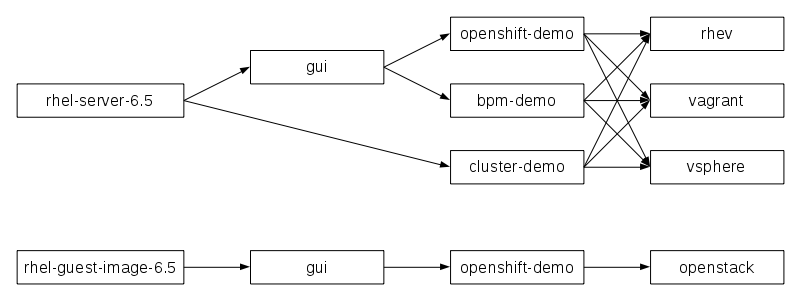
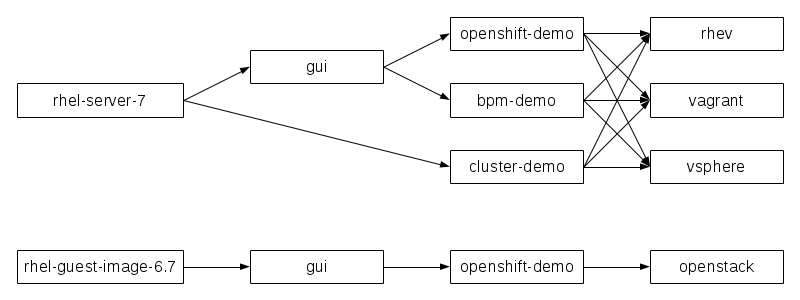
docs update

diff --git a/docs/Developing and testing intermediate layers.md b/docs/Developing and testing intermediate layers.md
@@ -8,54 +8,51 @@ Building an intermediate layer is the most common build case in Demobuilder, and
 
 1. Start a temporary virtual machine using the COW image and wait until its guest agent reports the VM's IP address to Demobuilder
 
-1. Rsync the layer's `target/` directory to a temporary directory on the VM using the demobuilder SSH key
+1. Rsync the layer's `@target/` directory to a temporary directory on the VM using the demobuilder SSH key
 
 1. Run the `target/install` executable on the VM
 
 1. Remove the target/ directory from the VM
 
-1. Remove references to the VM MAC address from the VM
+1. "Sysprep" the VM
 
 1. Power off the VM
 
 ### Intermediate layer definition
 
-Each layer definition occupies a separate subdirectory under `layers/`.  This subdirectory contains a standard set of files which are used to define and build the layer.  A template intermediate layer which can be copied and reused can be found at `layers/template`.
+Each layer definition occupies a separate subdirectory under `layers/`.  This subdirectory contains a standard set of files which are used to define and build the layer.  A template intermediate layer which can be copied and reused can be found at `layers/@template`.
 
 As a minimum, an intermediate layer includes the following files:
 
-- **`README`**: required, information about the layer including its name and contact details for the maintainer
-- **`install`**: required, an executable file which creates the new layer as defined above.  For intermediate layers this should be a symlink to `../../utils/addlayer.sh`
-- **`target/`**: required, a directory which is copied in its entirety to the the temporary VM during the layer build process
-- **`target/install`**: required, an executable file which runs in the context of the VM to install the layer
-- **`target/vm-functions`**: optional, should be a symlink to `../../../utils/vm-functions`.  If `target/install` is a shell script, it can source `vm-functions` to use a standard library of install routines provided by Demobuilder
+- **`config.yml`**: required, information about the layer including its name and contact details for the maintainer
+- **`@target/`**: required, a directory which is copied in its entirety to the the temporary VM during the layer build process
+- **`@target/install`**: required, an executable file which runs in the context of the VM to install the layer
+- **`@docs/index.html`**: optional, documentation for the layer
 
 ### Creating a new intermediate layer
 
 The following steps should be taken to create a new intermediate layer:
 
-1. Determine a parent stack upon which you intend your new intermediate child layer to be added.  This will be a base layer, e.g. *rhel-server-6.5*, with zero or more layers already added, e.g. *rhel-server-6.5:gui*
+1. Determine a parent stack upon which you intend your new intermediate child layer to be added.  This will be a base layer, e.g. *rhel-server-6*, with zero or more layers already added, e.g. *rhel-server-6:gui*
 
-1. Copy the template intermediate layer `layers/template` to a new subdirectory of your choice under `layers/`
+1. Copy the template intermediate layer `layers/template` to a new subdirectory under `layers/`, named in the format *parent-layer-names:new-layer-name*.
 
 1. Start a temporary COW VM of your parent stack (see below for how to do this) and work out the commands that will be necessary to install the additional components that will be provided by your new intermediate layer
 
 1. Iterate the following process until you are happy with your new intermediate layer:
 
-   1. Update `target/install` in your new intermediate layer to run the necessary commands to install the layer.  If you need to copy configuration files from your layer definition into the VM, place these files in the `target/` directory as well; they will be accessible in $PWD when `target/install` is run for you at build time.
+   1. Update `@target/install` in your new intermediate layer to run the necessary commands to install the layer.  If you need to copy configuration files from your layer definition into the VM, place these files in the `@target/` directory as well; they will be accessible in $PWD when `target/install` is run for you at build time.
 
    1. Test the build of a stack including your new intermediate layer, for example:
 
       ```bash
-      $ rm -f build/rhel-server-6.5:gui:mynewlayer.qcow2
-      $ ./build.sh rhel-server-6.5:gui:mynewlayer
+      $ rm -f build/rhel-server-6:gui:mynewlayer.qcow2
+      $ ./build.sh rhel-server-6:gui:mynewlayer
       ```
 
    1. If the build succeeds, start a temporary COW VM of your new stack (see below for how to do this) to verify its functionality
 
-1. Update the README file in the new layer to indicate the new layer's functionality and maintainers
-
-1. Optionally, add one or more files to `targets/` defining the finalized stacks including your new layer that should be built by `./build.sh`.  These are files whose name represents the entire stack, e.g. `rhel-server-6.5:gui:mynewlayer:rhev`, and which contain environment variables which are read by the finalizing layer, for example to set the amount of memory required by the finalized VM image
+1. Update the config.yml file in the new layer to indicate the new layer's functionality, maintainers, documentation, CPU and memory requirements, etc.
 
 1. Send a pull request to have the new layer included in the upstream demobuilder distribution :-)
 
@@ -65,7 +62,7 @@ During the process of developing a new intermediate layer, it is likely that you
 
 **IMPORTANT NOTE**: **never** start a temporary VM backed directly by a disk image from the `build/` directory.  This is important for two reasons:
 
-1. Disk images in `build/` may have child COW images chained from them.  If this is the case, modifying the parent image is highly likely to corrupt all the chained child images.
+1. Disk images in `build/` may have child COW images chained from them.  If this is the case, modifying the parent image will corrupt all the chained child images.
 
 1. Even if you know that the disk image you are working with does not have any child COW images, it is much more convenient to start a temporary VM backed by a temporary COW image of your disk image.  This makes it trivial to revert changes made during testing.
 

diff --git a/docs/What is Demobuilder.md b/docs/What is Demobuilder.md
@@ -4,7 +4,7 @@
 
 The concept of Demobuilder is similar to a virtual machine-based version of `docker build`.  Demobuilder automates the build process of final packaged VM images by applying multiple successive scripted *layers* to specialise and increase the capability of one or more *base layers*.
 
-Demobuilder is able to use pre-built VM images as base layers, or it can provision its own new base layers using technologies such as kickstart.  Zero or more *intermediate layers* may be added on top of a base layer, each child layer providing additional functionality in the resulting *stack*.  Lastly, one or more *finalizing layers* are applied to the stack, thus creating one or more final portable optimised virtual machine images, each targeted to a specific hypervisor technology.
+Demobuilder is able to use pre-built VM images as base layers, or it can provision its own new base layers using technologies such as kickstart.  Zero or more *intermediate layers* may be added on top of a base layer, each child layer providing additional functionality in the resulting *stack*.  Lastly, one or more *target layers* are applied to the stack, thus creating one or more final portable optimised virtual machine images, each targeted to a specific hypervisor technology.
 
 Demobuilder uses snapshots and copy-on-write technology to allow any given layer to be a "parent" to multiple "child" layers during the build process.  This maximises time and space efficiency during build, and by encouraging DRY ("don't repeat yourself") principles promotes collaboration as well as improving uniformity and manageability of resulting VM images.
 
@@ -12,12 +12,12 @@ Demobuilder provides tooling to facilitate efficient local development, test and
 
 ### Syntax
 
-A VM stack is denoted by multiple layers separated by colons in the form *base-layer:intermediate-layer\*:finalizing-layer*.  For example, *rhel-server-6.5:gui:openshift:vsphere* denotes a stack which built from the "rhel-server-6.5" base layer with the "gui" and "openshift" layers applied to it, and targeted to VMware vSphere using the "vsphere" layer.
+A VM stack is denoted by multiple layers separated by colons in the form *base-layer:intermediate-layer\*:target-layer*.  For example, *rhel-server-7.1:gui:ose-3.0:vagrant-libvirt* denotes a stack which built from the "rhel-server-7.1" base layer with the "gui" and "ose-3.0" layers applied to it, and targeted to vagrant-libvirt using the "vagrant-libvirt" layer.
 
 ### Example
 
 ![Diagram 1](images/diagram1.png)
 
-Diagram 1 demonstrates the concept of reuse of multiple base, intermediate and finalizing layers to produce a set of final VM images.  RHEV, Vagrant and VMware vSphere images are created for each of three demo images (*openshift-demo*, *bpm-demo* and *cluster-demo*).  Two of the demos (*openshift-demo* and *bpm-demo*) use a shared intermediate layer to provide a standardised graphical user interface.  A further VM image of *openshift-demo* targeted for OpenStack is also created, reusing the same intermediate layers but based on a different base image.
+Diagram 1 demonstrates the concept of reuse of multiple base, intermediate and finalizing layers to produce a set of final VM images.  RHEV, Vagrant and VMware vSphere images are created for each of three demo images (*openshift-demo*, *bpm-demo* and *cluster-demo*).  Two of the demos (*openshift-demo* and *bpm-demo*) use a shared intermediate layer to provide a standardised graphical user interface.  Separately, a further VM image of *openshift-demo* targeted for OpenStack is also created, using a different set of intermediate layers.
 
-In this example, each of the layers would be defined in a separate subdirectory of layers/, for example *layers/rhel-server-6.5*, *layers/gui*, *layers/rhev*, etc.  Each of the desired final VM images would be defined by a metadata file matching the stack definition placed in targets/, for example *targets/rhel-server-6.5:cluster-demo:vagrant*, *targets/rhel-server-6.5:cluster-demo:vsphere*, etc.
+In this example, each of the layers would be defined in a separate subdirectory of layers/, for example *layers/rhel-server-7*, *layers/rhel-server-7:gui*, *layers/rhel-server-7:gui:openshift-demo*, etc.  Target layers are defined under targets/, for example *targets/rhev*, *targets/vsphere*, etc.  A stack is created by running build.sh with the full name of the stack, e.g. `build.sh rhel-server-7:gui:openshift-demo:rhev`.  The completed file is placed in releases/.

diff --git a/docs/Installing Demobuilder.md b/docs/Installing Demobuilder.md
@@ -2,36 +2,43 @@
 
 ### Prerequisites
 
-- Fedora 21 on a physical machine.
+- Fedora 22 on a physical machine.
 
 ### Installation
 
 ```bash
-# Run the following commands as root...
-
 # Install required packages
-$ yum -y install git libcdio libguestfs-tools-c libvirt python-markdown2 qemu
-
-# Ensure all necessary CA certificates are correctly installed
-$ pushd /etc/pki/ca-trust/source/anchors
-$ wget http://path/to/ca.crt
-$ popd
-$ update-ca-trust
+sudo dnf -y install git libcdio libguestfs libvirt pigz pyOpenSSL \
+  python-bottle PyYAML qemu-kvm
 
 # Ensure system is up to date
-$ yum -y update
+sudo dnf -y update
 
 # Ensure required services are started
-$ systemctl enable libvirtd.service
-$ systemctl start libvirtd.service
+sudo systemctl enable libvirtd.service
+sudo systemctl start libvirtd.service
 
 # If using firewalld (on by default), allow VMs to communicate to the
 # hypervisor
-$ firewall-cmd --permanent --zone=trusted --add-interface=virbr0
-$ firewall-cmd --reload
+sudo firewall-cmd --permanent --zone=trusted --add-interface=virbr0
+sudo firewall-cmd --reload
 
 # Clone repository
-$ git clone https://github.com/RedHatEMEA/demobuilder.git
+cd $HOME
+git clone -u https://github.com/RedHatEMEA/demobuilder.git
+
+# Configure demobuilder
+cd demobuilder
+cp config.yml.example config.yml
+
+# Add your RHN username and password to config.yml, and provide the UUID(s) of
+# one or more pools to which VMs should be temporarily connected using
+# subscription-manager at build time
+
+# If building RHEL-based VMs, download appropriate ISOs to isos/.
+mkdir isos
+# download isos/rhel-server-6.7-x86_64-dvd,
+# isos/rhel-server-7.1-x86_64-dvd.iso, etc.
 ```
 
 ### Building images
@@ -39,33 +46,33 @@ $ git clone https://github.com/RedHatEMEA/demobuilder.git
 Note that **all** demobuilder scripts must be run from the root of the demobuilder directory tree.
 
 ```bash
-$ cd demobuilder
-$ ./build.sh
-Usage: ./build.sh layer|-a [target|-a]
+cd demobuilder
+./build.sh
+Usage: ./build.sh layer[:target]...
 
 Valid layers:
-  foo
-  foo:bar
-  baz
+  fedora-21
+  fedora-21-32
+  fedora-21-32:gui
+  fedora-21-32:gui:webex
+  fedora-21:gui
+  rhel-guest-image-6.6
+  rhel-server-6
+  rhel-server-6:gui
+  rhel-server-6:gui:ose-2.2
+  rhel-server-7
+  rhel-server-7:gui
+  rhel-server-7:gui:ose-3.0
+  rhel-server-7:gui:ose-3.0:demo-jminter
 
 Valid targets:
   openstack
   rhev
-  vagrant
+  vagrant-libvirt
+  vagrant-virtualbox
   vsphere
 
-# Build a single image
-$ ./build.sh foo openstack
-
-# Build all images
-$ ./build.sh -a
+# Build an image
+./build.sh rhel-server-7 rhel-server-7:gui rhel-server-7:gui:ose-3.0 \
+  rhel-server-7:gui:ose-3.0:vagrant-libvirt
 ```
-
-### Notes
-
-1. If you get the following libguestfs errors, running `yum -y update` appears to resolve the problem.
-
-   ```bash
-   libguestfs: warning: supermin-helper -f checksum returned a short string
-   libguestfs: error: cannot find any suitable libguestfs supermin, fixed or old-style appliance on LIBGUESTFS_PATH (search path: /usr/lib64/guestfs)
-   ```

diff --git a/README.md b/README.md
@@ -2,7 +2,7 @@
 
 ### Introduction
 
-Demobuilder is a collection of tools which enable automated, collaborative, building of layered VM images targeted to multiple hypervisors including OpenStack, RHEV, Vagrant and VMware.
+Demobuilder is a collection of tools which enable automated, collaborative, building of layered VM images targeted to multiple hypervisors including OpenStack, RHEV, Vagrant (for libvirt and for VirtualBox) and VMware.
 
 ### Contents
 

diff --git a/docs/README.md b/docs/README.md
@@ -2,7 +2,7 @@
 
 ### Introduction
 
-Demobuilder is a collection of tools which enable automated, collaborative, building of layered VM images targeted to multiple hypervisors including OpenStack, RHEV, Vagrant and VMware.
+Demobuilder is a collection of tools which enable automated, collaborative, building of layered VM images targeted to multiple hypervisors including OpenStack, RHEV, Vagrant (for libvirt and for VirtualBox) and VMware.
 
 ### Contents
 
